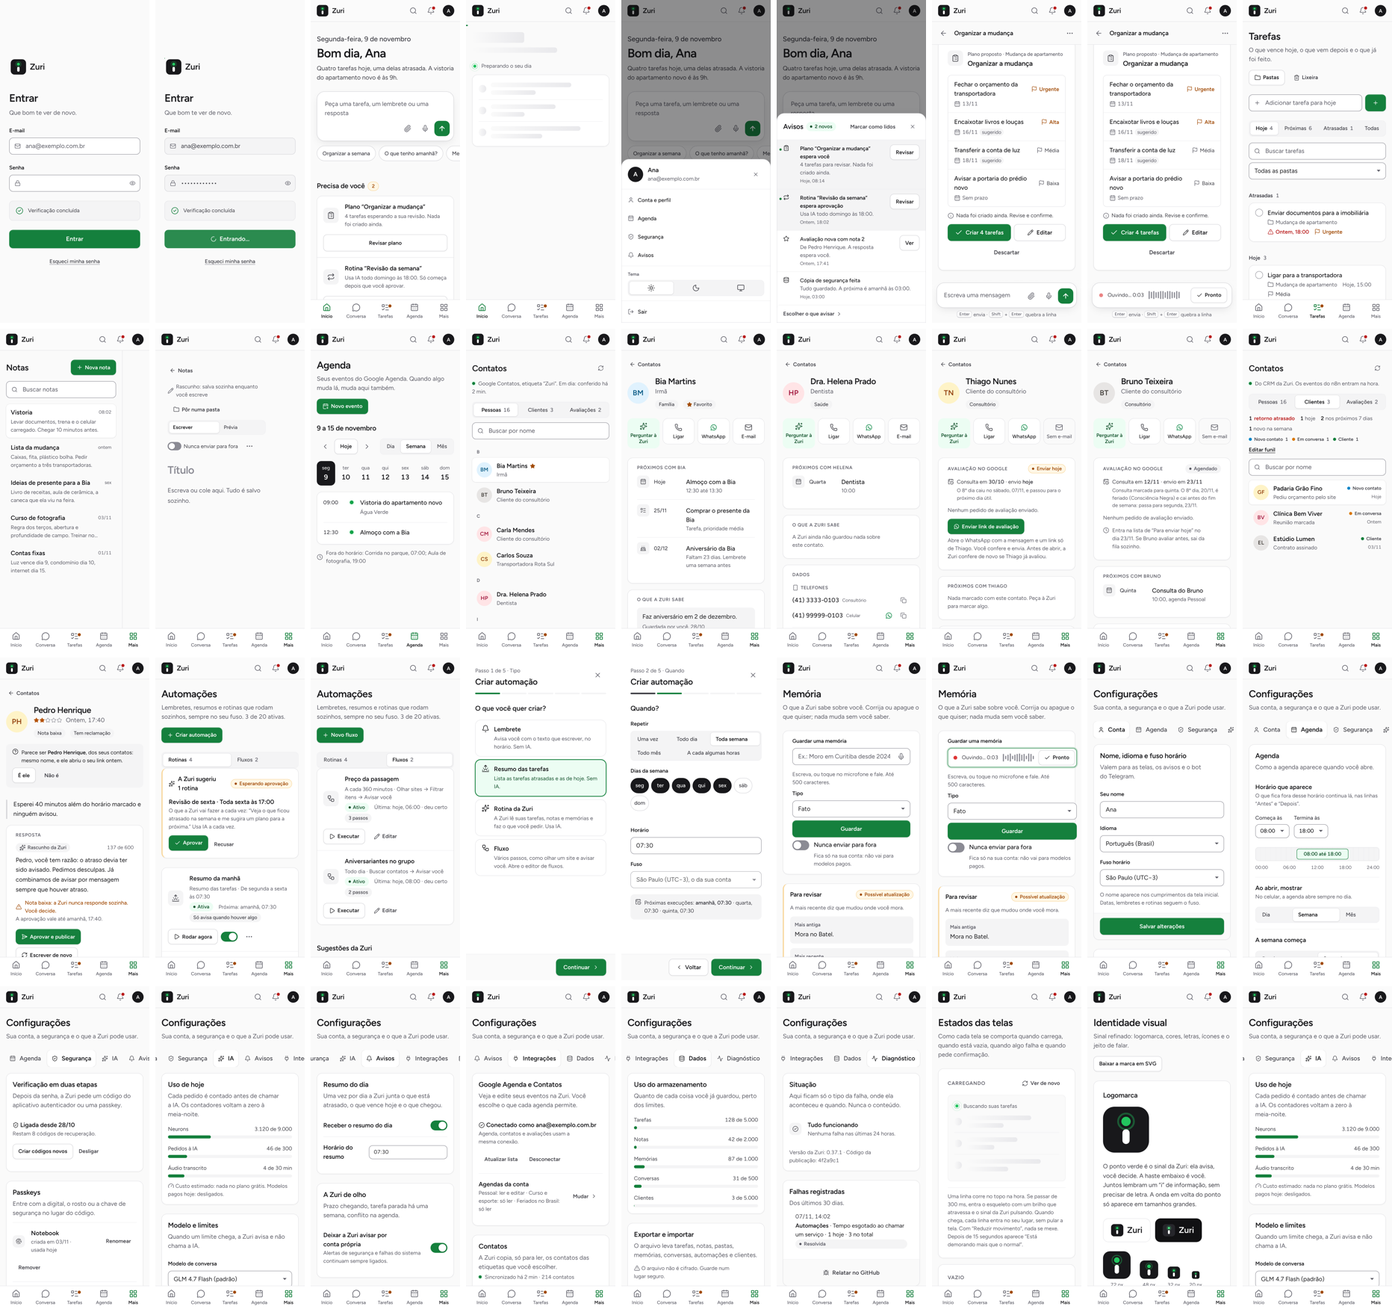
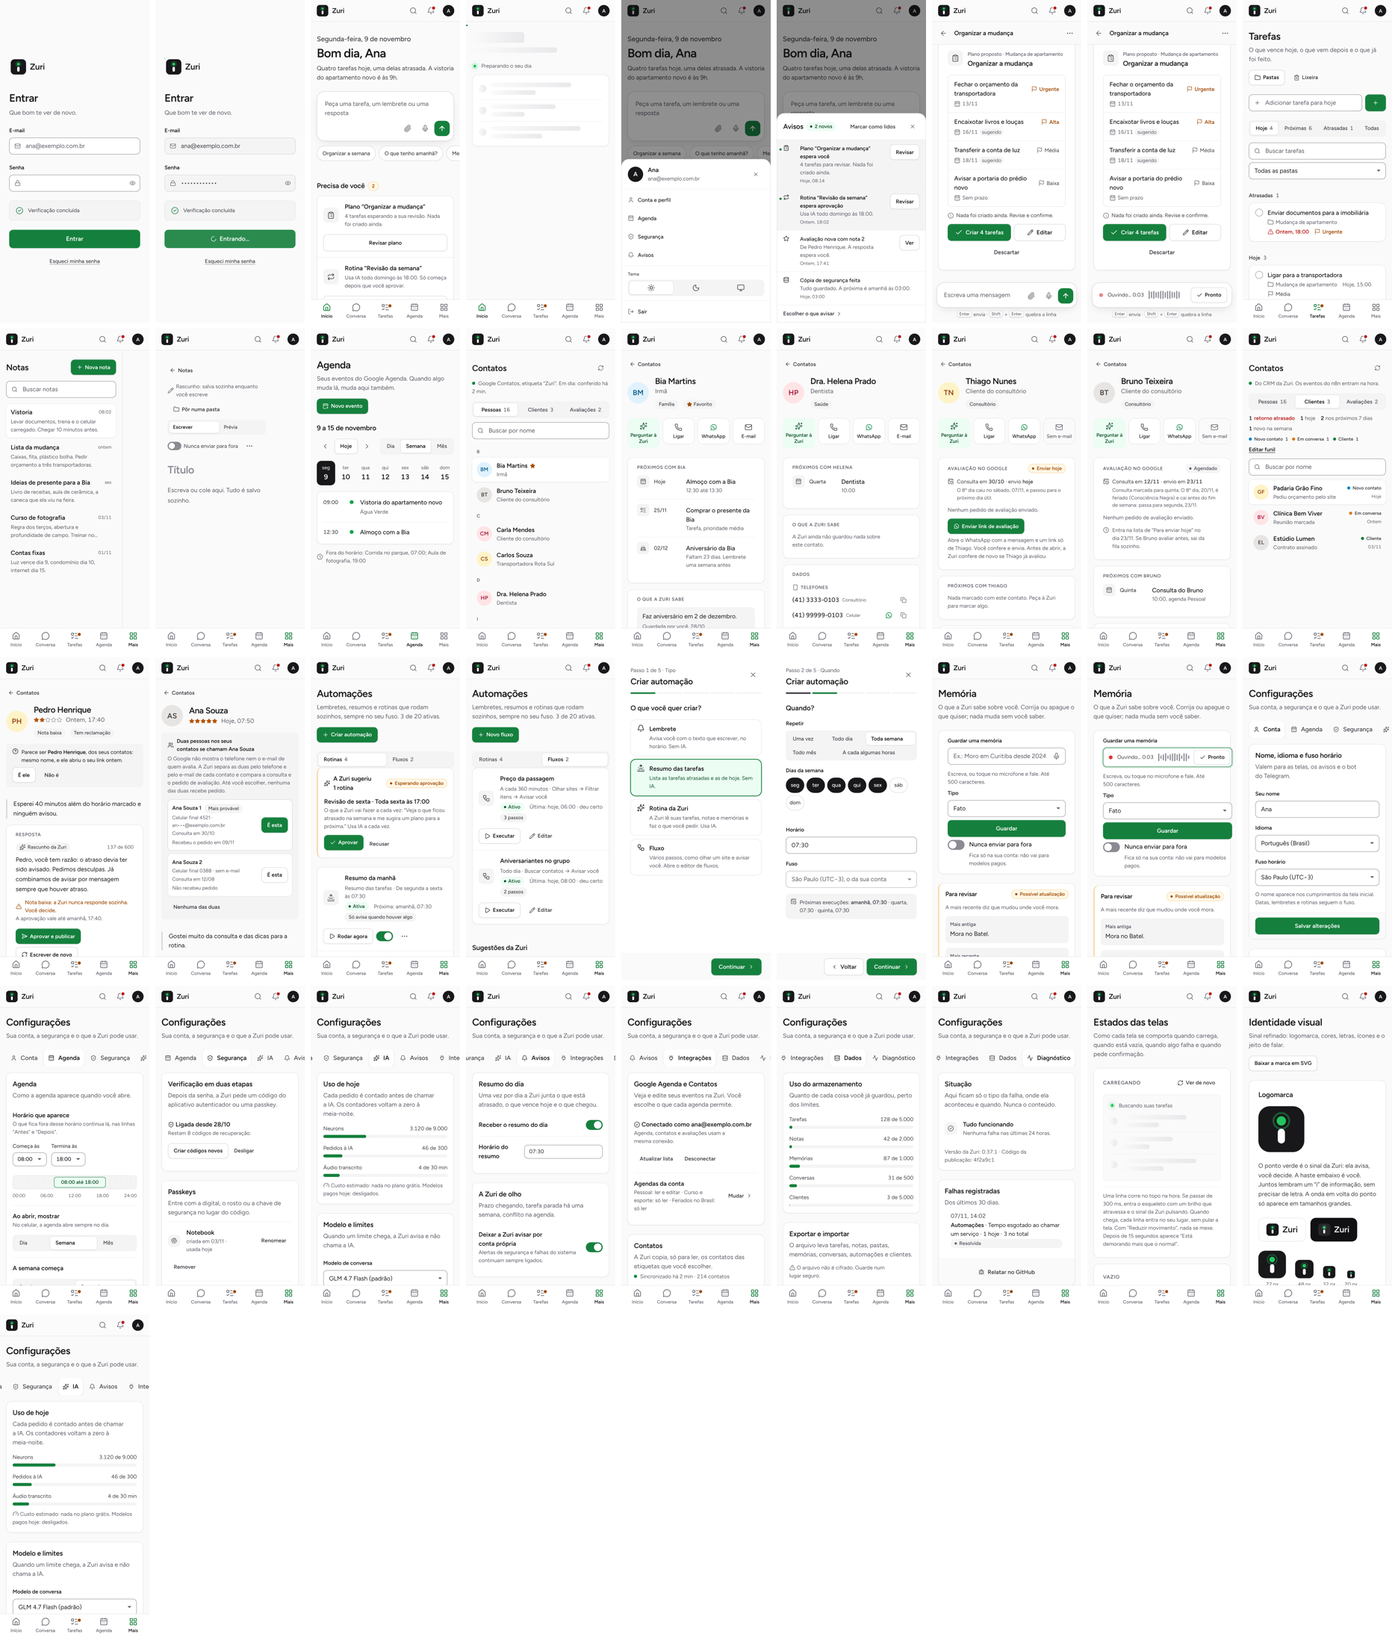
docs: regra para avaliações de pessoas com o mesmo nome
- O Google não entrega e-mail nem telefone de quem avalia; o telefone e o e-mail dos contatos separam homônimos e mostram quem recebeu e abriu o link.
- Com homônimos a Zuri nunca liga sozinha, mostra os candidatos com a pista mais forte e ninguém recebe pedido até a escolha.
- Protótipo: cartão de homônimos na avaliação da "Ana Souza"; 148 capturas, axe sem problemas.

Claude-Session: https://claude.ai/code/session_012XDDEerS3cpuzdVGkXufcX

diff --git a/docs/planos/modelos-frontend/prototipo-v5.html b/docs/planos/modelos-frontend/prototipo-v5.html
@@ -1594,6 +1594,15 @@ body>#app{flex:1 1 auto;min-height:0;overflow:auto}
 /* ajustes de 09/11 19:34: gravação igual em todos os microfones */
 .composer .rec{border:0;box-shadow:none;background:transparent;padding-left:0;min-height:44px}
 .composer-lg .rec{flex-basis:100%}
+/* ajustes de 09/11 20:02: avaliação com homônimos */
+.rv-twins h3{display:flex;gap:8px;align-items:center;font-size:var(--t-sm);font-weight:600}
+.rv-twins .hint{margin-top:4px}
+.tw-list{display:grid;gap:var(--s2);margin-top:var(--s3)}
+.tw-list li{display:flex;gap:var(--s3);align-items:center;justify-content:space-between;padding:var(--s3);border-radius:var(--r-md);background:var(--surface);box-shadow:inset 0 0 0 1px var(--line)}
+.tw-list li.best{box-shadow:inset 0 0 0 1px var(--line-strong)}
+.tw-list .t{font-weight:600;font-size:var(--t-sm)}
+.tw-list .meta{display:flex;flex-wrap:wrap;gap:4px 12px;font-size:var(--t-xs);color:var(--muted)}
+.tw-list .btn{flex:none}
 
 </style>
 </head>
@@ -2112,6 +2121,8 @@ const CLIENTS = [
 const REVIEWS = [
   { id: "luciana", n: "Luciana Ferraz", i: "LF", c: 1, stars: 5, when: "Hoje, 08:05", st: "wait", contact: "luciana", until: "amanhã, 08:05", edit: "Editou hoje: antes eram 4 estrelas.", text: "Atendimento atencioso do começo ao fim. Saí com tudo explicado e um plano fácil de seguir.", reply: "Obrigada, Luciana! Que bom que o plano ficou claro. Conte com a gente no retorno." },
   { id: "pedro", n: "Pedro Henrique", i: "PH", c: 2, stars: 2, when: "Ontem, 17:40", st: "low", guess: "pedro", why: ["Nota baixa", "Tem reclamação"], until: "amanhã, 17:40", text: "Esperei 40 minutos além do horário marcado e ninguém avisou.", reply: "Pedro, você tem razão: o atraso devia ter sido avisado. Pedimos desculpas. Já combinamos de avisar por mensagem sempre que houver atraso." },
+  { id: "anasouza", n: "Ana Souza", i: "AS", c: 4, stars: 5, when: "Hoje, 07:50", st: "wait", until: "amanhã, 07:50", text: "Gostei muito da consulta e das dicas para a rotina.", reply: "Obrigada, Ana! Que bom que as dicas ajudaram na rotina.",
+    twins: [{ id: "ana1", sub: "Celular final 4521 · an•••@exemplo.com.br", why: ["Consulta em 30/10", "Recebeu o pedido em 09/11"], best: true }, { id: "ana2", sub: "Celular final 0388 · sem e-mail", why: ["Consulta em 12/08", "Não recebeu pedido"] }] },
   { id: "camila", n: "Camila Rocha", i: "CR", c: 3, stars: 5, when: "07/11", st: "done", pub: "07/11, 10:12", text: "Ótima experiência, recomendo!", reply: "Obrigada, Camila! Ficamos felizes com a recomendação." },
   { id: "carla", n: "Carla Mendes", i: "CM", c: 3, stars: 3, when: "20/10", st: "gone", contact: "carla", text: "Bom atendimento, mas a sala de espera estava cheia.", reply: "" }
 ];
@@ -2157,7 +2168,7 @@ function contatos() {
         <div class="rv-n"><p class="big num">72</p><p class="d">Índice de recomendação</p><p class="d xs">5 estrelas recomenda; 1 a 3, não</p></div></div>
        <div class="seg seg-sub" role="group" aria-label="Ver"><button type="button" data-rvv="avaliacoes" aria-pressed="${!pedidos}">Avaliações</button><button type="button" data-rvv="pedidos" aria-pressed="${pedidos}">Pedidos de avaliação</button></div>
        ${pedidos ? `<div class="match card"><p class="t">${ic("link", "ic-sm")}Avaliações ligadas aos contatos</p><p class="ped-sum"><span><b class="num">23</b> lidas</span><span><b class="num">19</b> ligadas</span><span><b class="num">3</b> para confirmar</span><span><b class="num">1</b> sem contato</span></p><p class="hint">Quem tem avaliação para confirmar fica fora da fila até você decidir.</p></div>
-         <p class="ped-sum"><span><b class="num">${c.hoje}</b> para hoje</span><span><b class="num">${c.agendado}</b> agendados</span><span><b class="num">${c["sem-resposta"]}</b> sem resposta</span><span><b class="num">${c.avaliou}</b> avaliaram</span></p>` : `<div class="rv-bar"><label class="sr" for="rv-f">Filtrar avaliações</label><select id="rv-f" class="input input-sm"><option>Precisa de você (2)</option><option>Publicadas sozinha (0)</option><option>Todas (4)</option></select><label class="sr" for="rv-n">Nota</label><select id="rv-n" class="input input-sm"><option>Todas as notas</option><option>5 estrelas</option><option>4 estrelas</option><option>3 estrelas</option><option>2 estrelas</option><option>1 estrela</option></select></div>
+         <p class="ped-sum"><span><b class="num">${c.hoje}</b> para hoje</span><span><b class="num">${c.agendado}</b> agendados</span><span><b class="num">${c["sem-resposta"]}</b> sem resposta</span><span><b class="num">${c.avaliou}</b> avaliaram</span></p>` : `<div class="rv-bar"><label class="sr" for="rv-f">Filtrar avaliações</label><select id="rv-f" class="input input-sm"><option>Precisa de você (${waiting})</option><option>Publicadas sozinha (0)</option><option>Todas (4)</option></select><label class="sr" for="rv-n">Nota</label><select id="rv-n" class="input input-sm"><option>Todas as notas</option><option>5 estrelas</option><option>4 estrelas</option><option>3 estrelas</option><option>2 estrelas</option><option>1 estrela</option></select></div>
          <p class="rv-read"><span>Última leitura: há 6 min</span><button class="linkbtn" type="button" data-rv-check>Conferir agora</button><button class="linkbtn" type="button" data-rv-pause>Pausar respostas</button></p>`}`
     : `${tab === "clientes" ? `<p class="ped-sum cl-sum"><span class="late"><b class="num">1</b> retorno atrasado</span><span><b class="num">1</b> hoje</span><span><b class="num">2</b> nos próximos 7 dias</span><span><b class="num">1</b> novo na semana</span></p>
         <div class="funnel" role="group" aria-label="Funil">${[["novo", "Novo contato", 1], ["conv", "Em conversa", 1], ["cli", "Cliente", 1]].map(([k, l, n]) => `<span class="stage s-${k}"><i></i>${l} <b class="num">${n}</b></span>`).join("")}<button class="linkbtn" type="button" data-soon>Editar funil</button></div>` : ""}<form class="with-ic ct-search" role="search" onsubmit="return false">${ic("search", "ic-sm")}<label class="sr" for="cts">Buscar ${tab === "clientes" ? "clientes" : "contatos"}</label><input id="cts" class="input" placeholder="Buscar por nome" autocomplete="off"></form>`;
@@ -2232,7 +2243,11 @@ function person(p, client) {
 }
 function review(r) {
   const who = r.contact
-    ? `<p class="rv-who">${ic("user", "ic-sm")}<span>Ligada ao contato <button class="linkbtn" type="button" data-goto-p="${r.contact}">${r.n}</button></span></p>`
+    ? `<p class="rv-who">${ic("user", "ic-sm")}<span>Ligada ao contato ${PEOPLE.some((x) => x.id === r.contact) ? `<button class="linkbtn" type="button" data-goto-p="${r.contact}">${r.n}</button>` : `<b>${r.n}</b>`}</span></p>`
+    : r.twins ? `<section class="rv-guess rv-twins" aria-labelledby="h-tw"><h3 id="h-tw">${ic("users", "ic-sm")}Duas pessoas nos seus contatos se chamam ${r.n}</h3>
+        <p class="hint">O Google não mostra o telefone nem o e-mail de quem avalia. A Zuri separa as duas pelo telefone e pelo e-mail de cada contato e compara a consulta e o pedido de avaliação. Até você escolher, nenhuma das duas recebe pedido.</p>
+        <ul class="tw-list">${r.twins.map((x, k) => `<li${x.best ? ' class="best"' : ""}><div><p class="t">${r.n} ${k + 1}${x.best ? ' <span class="tag">Mais provável</span>' : ""}</p><p class="meta">${x.sub}</p><p class="meta">${x.why.map((w) => `<span>${w}</span>`).join("")}</p></div><button class="btn ${x.best ? "btn-primary" : "btn-secondary"} btn-sm" type="button" data-rv-twin="${r.id}" aria-label="É a ${r.n} ${k + 1}">É esta</button></li>`).join("")}</ul>
+        <div class="row-actions"><button class="btn btn-quiet btn-sm" type="button" data-rv-nolink>Nenhuma das duas</button></div></section>`
     : r.guess ? `<div class="rv-guess"><p>${ic("circle-help", "ic-sm")}<span>Parece ser <b>${r.n}</b>, dos seus contatos: mesmo nome, e ele abriu o seu link ontem.</span></p><div class="row-actions"><button class="btn btn-secondary btn-sm" type="button" data-rv-link="${r.id}">É ele</button><button class="btn btn-quiet btn-sm" type="button" data-rv-nolink>Não é</button></div></div>` : "";
   const state = r.st === "gone"
     ? `<p class="rv-low">${ic("trash-2", "ic-sm")}A pessoa apagou esta avaliação em 25/10. Fica aqui só no histórico.</p>`
@@ -2690,7 +2705,7 @@ document.addEventListener("input", (e) => {
 document.addEventListener("click", (e) => {
   const t = e.target.closest("button, a");
   if (!t && e.target.matches && e.target.matches("[data-scrim]")) { closeLayer(); return; }
-  if (!t || !t.matches("[data-ag-reset], [data-ag-default], [data-cfg-open], [data-cfg], [data-ct], [data-p], [data-replay], [data-rvv], [data-goto-p], [data-rv-link], [data-rv-nolink], [data-nps-send], [data-new-note], [data-n], [data-wk], [data-mic], [data-mic-stop], [data-au-open], [data-au-close], [data-au-next], [data-au-back], [data-au-done], [data-au-type], [data-menu], [data-close-pop], [data-read-all], [data-cfg-go], [data-aviso], [data-logout], .qa-tel, [data-wa], [data-af], [data-sug], [data-rev], [data-cfg-save], [data-soon], [data-nmode], [data-rv-check], [data-rv-pause], [data-rv-redo], [data-rv-done], [data-agx], [data-ag-save], [data-ag-restore], [data-cat-sync], [data-cat-add]")) return;
+  if (!t || !t.matches("[data-ag-reset], [data-ag-default], [data-cfg-open], [data-cfg], [data-ct], [data-p], [data-replay], [data-rvv], [data-goto-p], [data-rv-link], [data-rv-twin], [data-rv-nolink], [data-nps-send], [data-new-note], [data-n], [data-wk], [data-mic], [data-mic-stop], [data-au-open], [data-au-close], [data-au-next], [data-au-back], [data-au-done], [data-au-type], [data-menu], [data-close-pop], [data-read-all], [data-cfg-go], [data-aviso], [data-logout], .qa-tel, [data-wa], [data-af], [data-sug], [data-rev], [data-cfg-save], [data-soon], [data-nmode], [data-rv-check], [data-rv-pause], [data-rv-redo], [data-rv-done], [data-agx], [data-ag-save], [data-ag-restore], [data-cat-sync], [data-cat-add]")) return;
   e.stopImmediatePropagation();
   if (t.matches("[data-ag-reset]")) { st.ag = { ...st.agDef }; render(); refocus("#ag-de"); return; }
   if (t.matches("[data-ag-default]")) { st.agDef = { de: 8, ate: 18 }; st.ag = { ...st.agDef }; render(); refocus("#cfg-de"); hint("A agenda volta a abrir das 08:00 às 18:00"); return; }
@@ -2716,7 +2731,8 @@ document.addEventListener("click", (e) => {
   if (t.matches("[data-rvv]")) { st.rvv = t.dataset.rvv; st.p = ""; render(); refocus(`[data-rvv="${st.rvv}"]`); return; }
   if (t.matches("[data-goto-p]")) { st.ct = "pessoas"; st.p = t.dataset.gotoP; render(); refocus("#h-p"); return; }
   if (t.matches("[data-rv-link]")) { const r = REVIEWS.find((x) => x.id === t.dataset.rvLink); r.contact = r.guess; delete r.guess; render(); hint("Avaliação ligada ao contato. Ele não recebe mais o link."); return; }
-  if (t.matches("[data-rv-nolink]")) { const r = REVIEWS.find((x) => x.id === st.p) || REVIEWS[1]; delete r.guess; render(); hint("Certo. A Zuri não liga esta avaliação a ninguém."); return; }
+  if (t.matches("[data-rv-twin]")) { const r = REVIEWS.find((x) => x.id === t.dataset.rvTwin); delete r.twins; r.contact = "anasouza"; render(); hint("Avaliação ligada a este contato. A outra Ana Souza volta para a fila."); return; }
+  if (t.matches("[data-rv-nolink]")) { const r = REVIEWS.find((x) => x.id === st.p) || REVIEWS[1]; delete r.guess; delete r.twins; render(); hint("Certo. A Zuri não liga esta avaliação a ninguém."); return; }
   if (t.matches("[data-nps-send]")) {
     e.preventDefault();
     const p = PEOPLE.find((x) => x.id === t.dataset.npsSend);

diff --git a/docs/planos/sinal-refinado-funcionalidades.md b/docs/planos/sinal-refinado-funcionalidades.md
@@ -73,8 +73,8 @@ Você envia com um toque. A Zuri monta a fila, abre o WhatsApp com a mensagem e 
 
 Antes de qualquer pedido sair, a Zuri lê todas as avaliações do perfil (a primeira leitura da etapa 19c já guarda o histórico) e tenta ligar cada uma a um contato:
 
-1. Nome completo igual a um único contato: sugestão forte.
-2. Primeiro e último nome iguais, ou o contato abriu o link pessoal pouco antes: sugestão fraca.
+1. Nome completo igual a um único contato, sem homônimos: liga sozinha, e você pode desfazer.
+2. Homônimos, só primeiro e último nome iguais, ou o contato abriu o link pessoal pouco antes: sugestão, com a sua confirmação. Detalhes na seção 8.1b.
 3. Nada parecido: avaliação sem contato.
 
 A regra de segurança é assimétrica: qualquer sugestão, forte ou fraca, tira a pessoa da fila até você decidir. Errar para menos (deixar alguém sem pedido) é aceitável; errar para mais (pedir de novo a quem já avaliou) não é. "É ele" confirma; "Não é" devolve a pessoa à fila.
@@ -90,6 +90,41 @@ Como funciona:
 5. Impressões iguais formam uma sugestão: nome inteiro igual é sugestão forte; só primeiro e último, fraca.
 
 O que isso protege: se alguém copiar o banco ou um backup, não lê o nome de quem avaliou. O que não protege: nomes são poucos e previsíveis, e quem tivesse a chave e uma lista de nomes conseguiria testar um por um. Por isso a chave fica só nos segredos do Worker, nunca no banco nem no backup. É pseudonimização, não anonimato. O nome já é público no Google, e a impressão serve para a Zuri não guardar uma cópia dele.
+
+### 8.1b Nomes iguais: como a Zuri diferencia (ajuste de 09/11, 20:02)
+
+O Pablo lembrou que duas ou mais pessoas podem ter o mesmo nome e sugeriu usar o e-mail e o telefone. O limite que manda em tudo: **o Google não entrega o e-mail nem o telefone de quem avalia.** A API do Perfil da Empresa traz de quem avaliou só o nome que aparece, a foto do perfil e se a avaliação é anônima ([referência da API](https://developers.google.com/my-business/reference/rest/v4/accounts.locations.reviews)). O código da develop lê só o nome e o "anônimo" (`packages/shared/src/reviews-schemas.ts`). Por isso o e-mail e o telefone entram do nosso lado, em dois papéis:
+
+1. **Separar as pessoas.** Cada contato é uma pessoa pelo telefone (em formato +55…) e pelo e-mail. Dois contatos com o mesmo telefone ou o mesmo e-mail são a mesma pessoa. Mesmo nome com telefone e e-mail diferentes são duas pessoas: homônimos. Mesmo nome e um deles sem telefone nem e-mail: a Zuri não sabe se é a mesma pessoa e trata como homônimos.
+2. **Saber quem recebeu o link.** O pedido sai para um telefone, então a Zuri sabe para quem mandou, quando, e se aquele link pessoal foi aberto. É a ponte entre a avaliação, que só tem nome e hora, e o contato, que tem telefone e e-mail.
+
+A ordem de decisão, para cada avaliação nova:
+
+| Situação | O que a Zuri faz |
+| --- | --- |
+| Avaliação já ligada antes | Nada. A ligação fica guardada pelo número da avaliação e pelo número do contato, não pelo nome. |
+| Nome inteiro bate com um contato só, e nenhum outro contato tem nome parecido | Liga sozinha. Você pode desfazer na ficha. |
+| Nome inteiro bate com dois ou mais contatos (homônimos) | **Nunca liga sozinha.** Mostra os candidatos com o final do celular, o e-mail mascarado, a última consulta e o pedido de avaliação, marca o mais provável e espera o seu "É esta" ou "Nenhuma". |
+| Só primeiro e último nome batem, ou o nome está abreviado ("Ana S.") | Sugestão, sempre com a sua confirmação. |
+| Avaliação anônima ou nome que não bate com ninguém | Só vira sugestão se exatamente um link pessoal foi aberto nas 48 horas antes da avaliação. Senão, fica sem contato. |
+
+Como a Zuri escolhe o "mais provável" entre homônimos, da pista mais forte para a mais fraca:
+
+1. Abriu o link pessoal nos 7 dias antes da avaliação.
+2. Recebeu o pedido de avaliação nos 30 dias antes.
+3. Teve consulta nos 60 dias antes.
+4. Se a pista não separa (as duas abriram o link, por exemplo), nenhuma é marcada e a escolha é toda sua.
+
+Travas para não errar:
+
+- **Na dúvida, ninguém recebe.** Enquanto houver homônimos esperando a sua escolha, nenhum deles entra na fila do pedido. O pior caso vira "alguém ficou sem pedido", nunca "pediu de novo a quem já avaliou".
+- **Escolha guardada para sempre.** "É esta" grava a ligação avaliação → contato. A Zuri não pergunta de novo, nem se o nome do contato mudar no Google.
+- **Uma avaliação, um contato; um contato, uma avaliação.** O Google aceita uma avaliação por conta em cada perfil. Se aparecer uma segunda avaliação com o nome de um contato que já tem a dele, ela é tratada como outra pessoa e vai para você.
+- **"Nenhuma das duas"** grava que aquela avaliação não é de nenhum contato, e os homônimos voltam para a fila normal.
+- **Contato novo com o mesmo nome** de quem já está ligado não herda nada: a ligação é pelo número do contato, não pelo nome.
+- **Foto do perfil fora.** A foto do Google de quem avalia não é a mesma que você guardou no contato, e comparar rostos pediria IA e guardar biometria. Não vale o risco.
+
+No protótipo: Contatos › Avaliações › "Ana Souza" mostra o cartão dos homônimos.
 
 ### 8.2 Quem entra na fila e quando
 
@@ -185,5 +220,5 @@ O nome no rodapé da lateral (no celular, a letra no topo) abre um painel com Co
 ## Decisões que ficam com o Pablo
 
 1. Endereço e foto no contato (muda a decisão anterior).
-2. Guardar a impressão digital do nome inteiro de quem avaliou, para ligar avaliação a contato.
+2. Guardar a impressão digital do nome inteiro de quem avaliou, para ligar avaliação a contato. Em 20:02 o Pablo pediu cuidado com nomes iguais: regra na seção 8.1b.
 3. ~~Envio pelo Chatwoot~~: respondido em 09/11, 19:34 (exceção liberada, caixa de API sem custo da Meta, Chatwoot self-hosted). Detalhes em [envio-chatwoot-pela-zuri.md](envio-chatwoot-pela-zuri.md).

diff --git a/docs/planos/modelos-frontend.md b/docs/planos/modelos-frontend.md
@@ -27,7 +27,7 @@ Nada no app muda até o Pablo escolher. Vale lembrar que em 03/11 ele preferiu m
 
 - Protótipo: `docs/planos/modelos-frontend/prototipo-v5.html` (a barra do topo troca a tela e o tema).
 - Telas: Entrar, Início, Conversa, Tarefas, Notas, Agenda, **Contatos**, Automações, Memória, Configurações, **Estados das telas** e Identidade visual.
-- Capturas: `docs/capturas/pr/modelos-frontend-v5/`, nome `sinal-<tela>-<computador|celular>-<claro|escuro>.png` (144 imagens: as 12 telas e mais 24 vistas de dentro delas, entre elas o carregando, os painéis de perfil e de avisos, a nota nova, a memória e a conversa por voz, o assistente de automação, os fluxos, a ficha de contato com WhatsApp, os pedidos de avaliação, as oito seções das configurações e o ajuste de um agente), e a comparação com a rodada 3 em `antes-depois-*.png`.
+- Capturas: `docs/capturas/pr/modelos-frontend-v5/`, nome `sinal-<tela>-<computador|celular>-<claro|escuro>.png` (148 imagens: as 12 telas e mais 25 vistas de dentro delas, entre elas o carregando, os painéis de perfil e de avisos, a nota nova, a memória e a conversa por voz, o assistente de automação, os fluxos, a ficha de contato com WhatsApp, a avaliação com homônimos, os pedidos de avaliação, as oito seções das configurações e o ajuste de um agente), e a comparação com a rodada 3 em `antes-depois-*.png`.
 - Acessibilidade: axe (WCAG 2.1 e 2.2 A/AA e boas práticas) sem nenhuma violação nas 136 combinações, e nenhum erro de script.
 
 O Sinal continua sendo o Sinal: a mesma marca (o ponto verde sobre a haste), a fonte Figtree, os neutros em zinco e o verde como cor de ação. O que mudou foi o acabamento, regra por regra.
@@ -86,6 +86,10 @@ O Sinal continua sendo o Sinal: a mesma marca (o ponto verde sobre a haste), a f
 - **Pastas:** "Projetos" de tarefas e notas viraram "Pastas" no protótipo; a memória mantém a categoria "Projeto".
 - **Microfones:** a animação de gravação da memória vale para todos os microfones, inclusive o campo da conversa no Início e na Conversa.
 - **Chatwoot:** as três respostas do Pablo entraram em [envio-chatwoot-pela-zuri.md](envio-chatwoot-pela-zuri.md), que fica sem perguntas abertas.
+
+### Ajuste pedido pelo Pablo (09/11, 20:02)
+
+- **Nomes iguais:** o Google não entrega e-mail nem telefone de quem avalia, então a Zuri usa o telefone e o e-mail dos contatos para separar homônimos e para saber quem recebeu e abriu o link. Com homônimos, nunca liga sozinha e ninguém recebe pedido até a escolha do Pablo. Regra completa em [sinal-refinado-funcionalidades.md](sinal-refinado-funcionalidades.md), seção 8.1b; no protótipo, a avaliação da "Ana Souza".
 
 ### Recomendação
 
